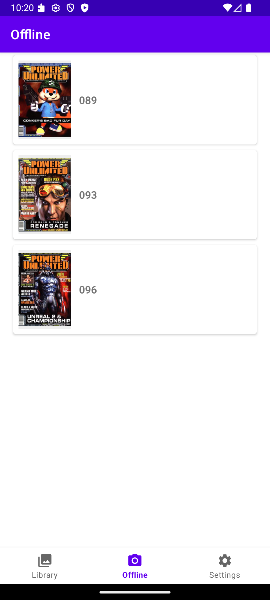
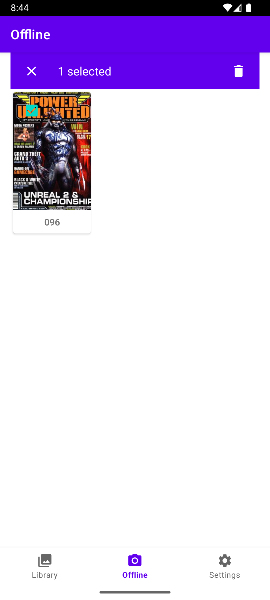
Update readme

diff --git a/app/src/main/java/com/magreader/magreader/ui/library/LibraryFragment.kt b/app/src/main/java/com/magreader/magreader/ui/library/LibraryFragment.kt
@@ -43,6 +43,7 @@ class LibraryFragment : Fragment() {
         super.onViewCreated(view, savedInstanceState)
         opdsManager = OpdsManager(requireContext())
         isOfflineMode = arguments?.getBoolean("isOfflineMode") ?: false
+        isGridView = opdsManager.isGridView
         
         if (!isOfflineMode && opdsManager.opdsUrl == null) {
             findNavController().navigate(R.id.nav_login)
@@ -89,6 +90,7 @@ class LibraryFragment : Fragment() {
 
         binding.buttonToggleLayout.setOnClickListener {
             isGridView = !isGridView
+            opdsManager.isGridView = isGridView
             updateLayout()
         }
 

diff --git a/app/src/main/java/com/magreader/magreader/data/OpdsManager.kt b/app/src/main/java/com/magreader/magreader/data/OpdsManager.kt
@@ -38,6 +38,10 @@ class OpdsManager(private val context: Context) {
         get() = prefs.getInt("grid_span_count", 3)
         set(value) = prefs.edit().putInt("grid_span_count", value).apply()
 
+    var isGridView: Boolean
+        get() = prefs.getBoolean("is_grid_view", false)
+        set(value) = prefs.edit().putBoolean("is_grid_view", value).apply()
+
     private val baseDir: File
         get() = dataLocation?.let { File(it) } ?: context.filesDir
 

diff --git a/README.md b/README.md
@@ -10,7 +10,7 @@ MagReader is a modern Android application designed for browsing and reading maga
 
 You can download the latest version of MagReader and stay updated by adding this repository to **[Obtainium](https://obtainium.imranr.dev/)**.
 
-[![Get it via Obtainium](https://img.shields.io/badge/Get%20it%20via-Obtainium-brightgreen?style=for-the-badge&logo=android&logoColor=white)](http://apps.obtainium.imranr.dev/redirect.html?r=obtainium://add/https://github.com/sbkg0002/MagReader)
+[<img src="https://brouken.com/img/get-it-on-obtainium.png" alt="Get it on Obtainium" height="75">](http://apps.obtainium.imranr.dev/redirect.html?r=obtainium://add/https://github.com/sbkg0002/MagReader)
 
 ## Features
 
@@ -21,9 +21,9 @@ You can download the latest version of MagReader and stay updated by adding this
 
 ## Screenshots
 
-|             Library             |              Login              |               Offline               |               Settings                |
-| :-----------------------------: | :-----------------------------: | :---------------------------------: | :-----------------------------------: |
-| ![Library](screenshots/lib.png) | ![Login](screenshots/login.png) | ![Offline](screenshots/offline.png) | ![Settings](screenshots/settings.png) |
+|                Library                |               Library_2               |              Login              |               Offline               |               Settings                |
+| :-----------------------------------: |:-------------------------------------:| :-----------------------------: | :---------------------------------: | :-----------------------------------: |
+| ![Library](screenshots/library_1.png) | ![Library](screenshots/library_3.png) | ![Login](screenshots/login.png) | ![Offline](screenshots/offline.png) | ![Settings](screenshots/settings.png) |
 
 ## Getting Started
 
